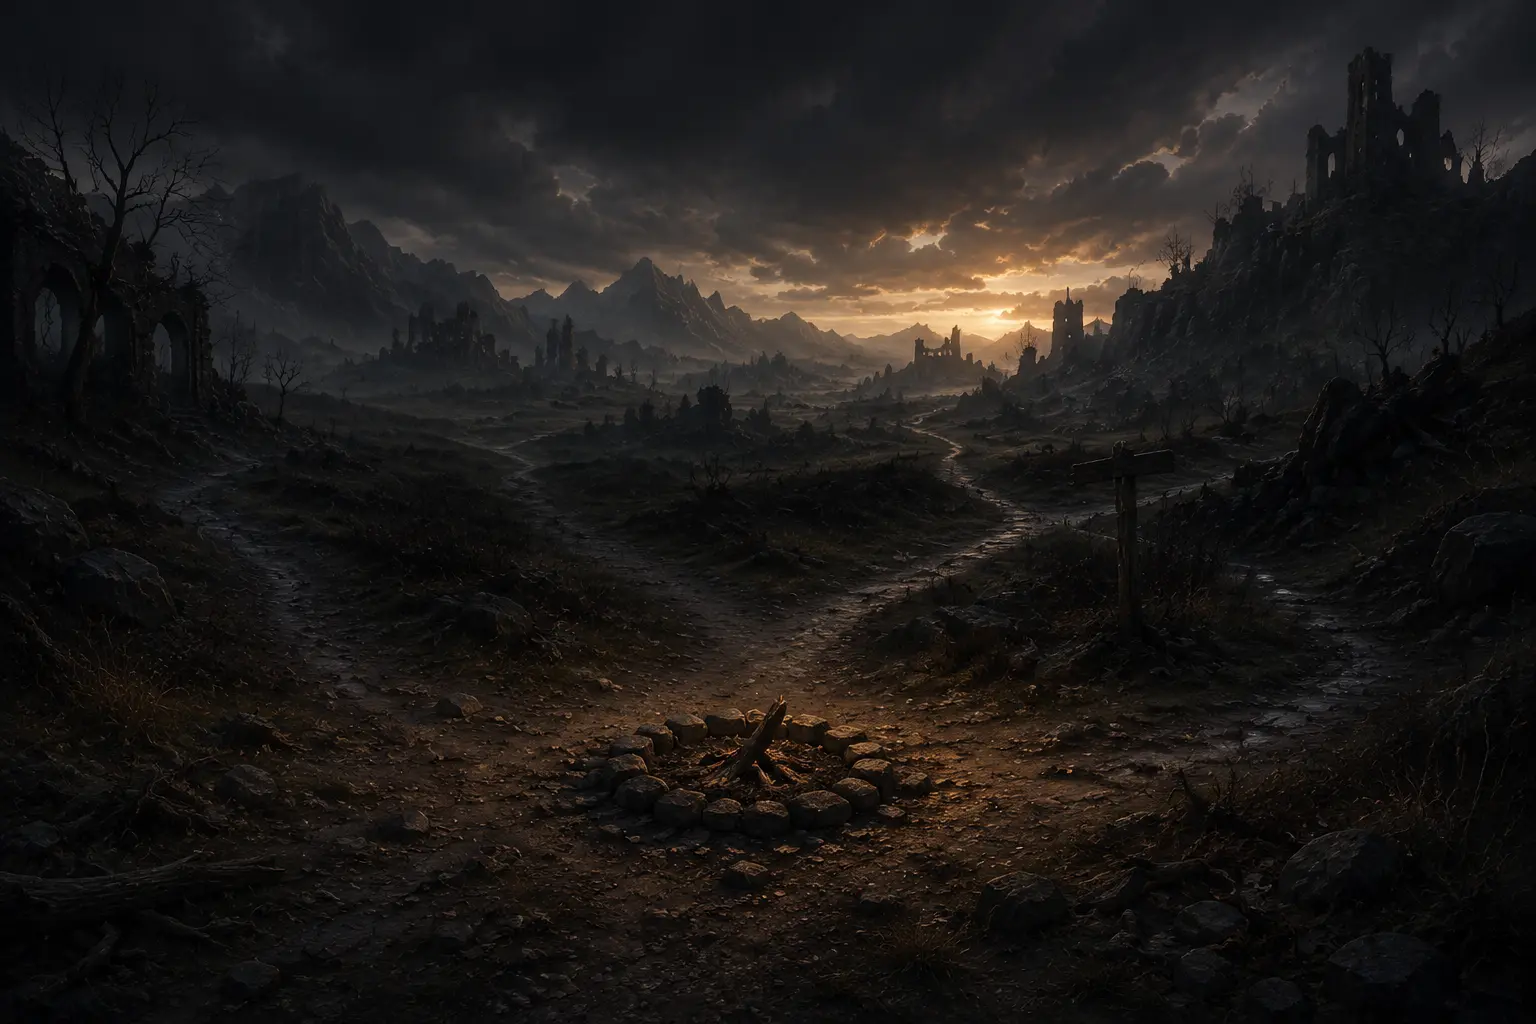
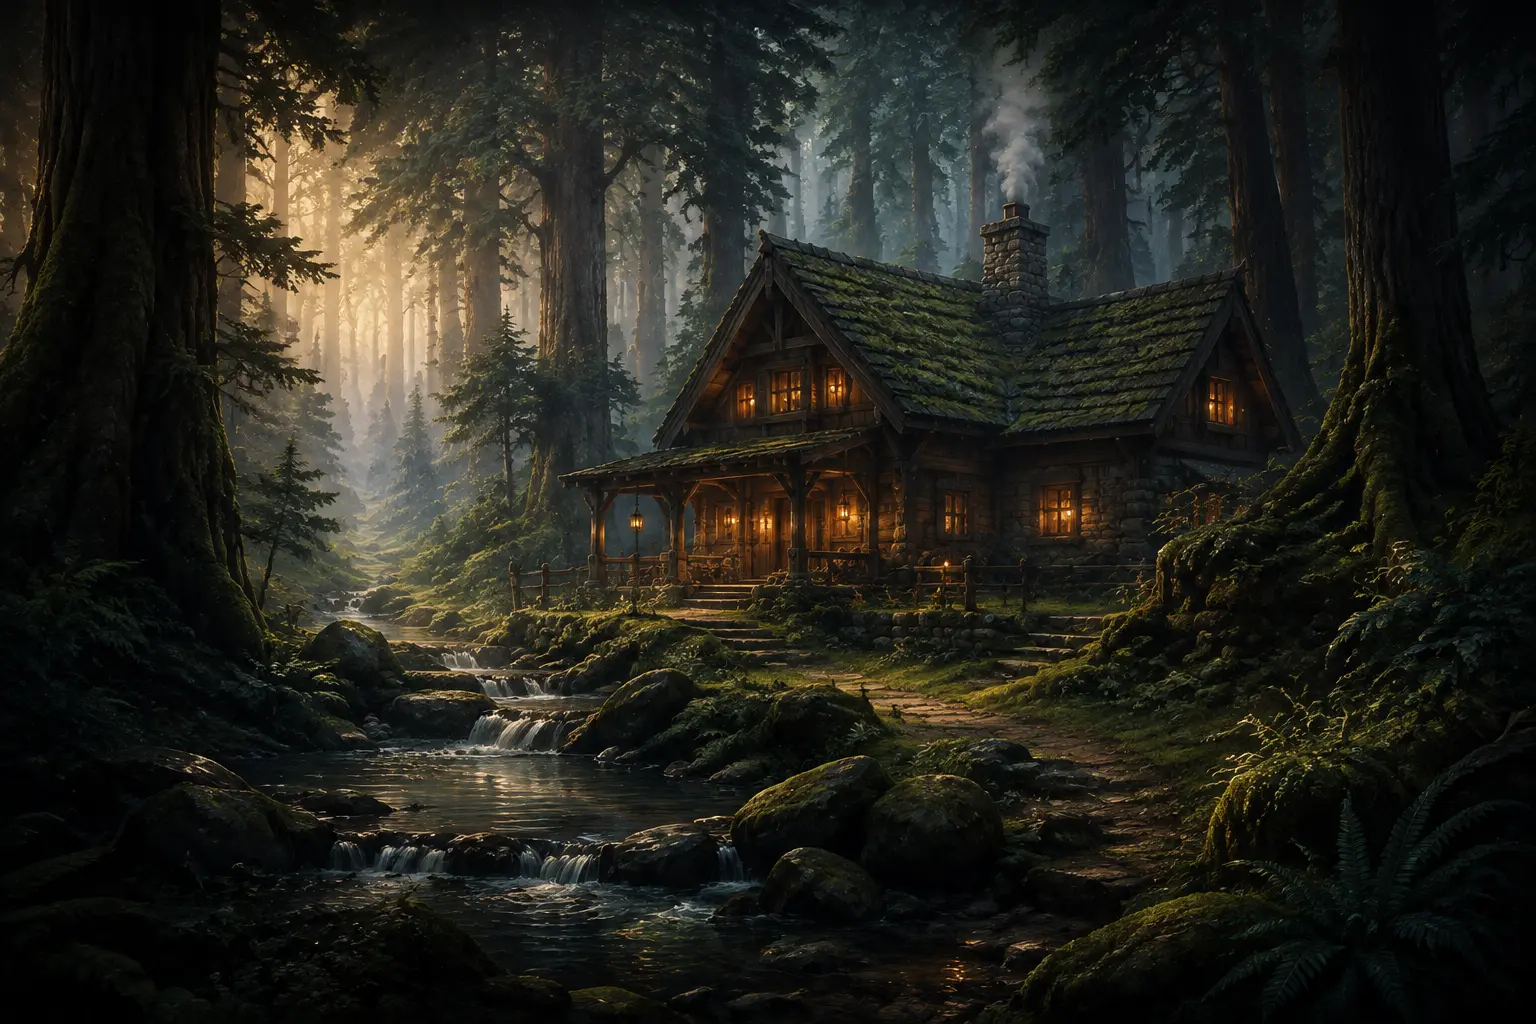
refactor(ui): keep fallback artwork and add responsive backgrounds

diff --git a/src/lib/ui-assets.ts b/src/lib/ui-assets.ts
@@ -1,185 +1,1 @@
-export type UiArtwork = Readonly<{
-  slug: string;
-  name: string;
-  src: string;
-  alt: string;
-  width: number;
-  height: number;
-}>;
-
-export const uiAssets = {
-  brand: {
-    logo: {
-      src: "/images/brand/weaveryn-logo.png",
-      alt: "Weaveryn celestial globe logo",
-      width: 1269,
-      height: 1240,
-    },
-  },
-  backgrounds: {
-    appShell: {
-      src: "/images/backgrounds/app-shell.webp",
-      alt: "Mountain realm with illuminated fantasy cities at twilight",
-      width: 1672,
-      height: 941,
-    },
-  },
-  fallbacks: {
-    world: "/images/worlds/default.webp",
-    campaign: "/images/campaigns/default.webp",
-    character: "/images/characters/default.webp",
-  },
-} as const;
-
-export const worldArtwork = [
-  {
-    slug: "eldoria",
-    name: "Eldoria",
-    src: "/images/worlds/eldoria.webp",
-    alt: "Mountain kingdom and castle city at golden sunset",
-    width: 1536,
-    height: 1024,
-  },
-  {
-    slug: "nythoria",
-    name: "Nythoria",
-    src: "/images/worlds/nythoria.webp",
-    alt: "Moonlit black-stone castle above an icy valley",
-    width: 1536,
-    height: 1024,
-  },
-  {
-    slug: "keldarim",
-    name: "Keldarim",
-    src: "/images/worlds/keldarim.webp",
-    alt: "Moss-covered mountain citadel beneath storm clouds",
-    width: 1536,
-    height: 1024,
-  },
-  {
-    slug: "vaelun",
-    name: "Vaelun",
-    src: "/images/worlds/vaelun.webp",
-    alt: "Violet crystalline realm surrounding an arcane rift",
-    width: 1536,
-    height: 1024,
-  },
-  {
-    slug: "thalorin",
-    name: "Thalorin",
-    src: "/images/worlds/thalorin.webp",
-    alt: "Ancient forest ruins beneath immense trees",
-    width: 1536,
-    height: 1024,
-  },
-  {
-    slug: "drakoria",
-    name: "Drakoria",
-    src: "/images/worlds/drakoria.webp",
-    alt: "Volcanic fortress city crossed by lava channels",
-    width: 1536,
-    height: 1024,
-  },
-  {
-    slug: "frostgard",
-    name: "Frostgard",
-    src: "/images/worlds/frostgard.webp",
-    alt: "Icebound fortress in a snow-covered mountain basin",
-    width: 1536,
-    height: 1024,
-  },
-  {
-    slug: "aurelia",
-    name: "Aurelia",
-    src: "/images/worlds/aurelia.webp",
-    alt: "Radiant domed city of pale stone and gold",
-    width: 1536,
-    height: 1024,
-  },
-] as const satisfies readonly UiArtwork[];
-
-export const campaignArtwork = [
-  {
-    slug: "crown-of-ashes",
-    name: "Crown of Ashes",
-    src: "/images/campaigns/crown-of-ashes.webp",
-    alt: "Castle city threatened by fire beneath an ash-filled sunset",
-    width: 1536,
-    height: 1024,
-  },
-  {
-    slug: "whispers-in-the-deep",
-    name: "Whispers in the Deep",
-    src: "/images/campaigns/whispers-in-the-deep.webp",
-    alt: "Flooded ancient temple with a distant blue-lit arch",
-    width: 1536,
-    height: 1024,
-  },
-  {
-    slug: "the-verdant-vale",
-    name: "The Verdant Vale",
-    src: "/images/campaigns/the-verdant-vale.webp",
-    alt: "Warm woodland lodge beside a forest stream",
-    width: 1536,
-    height: 1024,
-  },
-  {
-    slug: "sands-of-time",
-    name: "Sands of Time",
-    src: "/images/campaigns/sands-of-time.webp",
-    alt: "Desert capital with a luminous hourglass-shaped gate",
-    width: 1536,
-    height: 1024,
-  },
-  {
-    slug: "frostbound-oath",
-    name: "Frostbound Oath",
-    src: "/images/campaigns/frostbound-oath.webp",
-    alt: "Snowbound mountain keep beyond a path of oath stones",
-    width: 1536,
-    height: 1024,
-  },
-  {
-    slug: "shadows-of-the-arcanum",
-    name: "Shadows of the Arcanum",
-    src: "/images/campaigns/shadows-of-the-arcanum.webp",
-    alt: "Violet crystal suspended in a shadowed arcane hall",
-    width: 1536,
-    height: 1024,
-  },
-] as const satisfies readonly UiArtwork[];
-
-export const characterArtwork = [
-  {
-    slug: "aldric",
-    name: "Aldric",
-    src: "/images/characters/aldric.webp",
-    alt: "Aldric, a dark-haired human paladin in blackened armor",
-    width: 1086,
-    height: 1448,
-  },
-  {
-    slug: "lyra",
-    name: "Lyra",
-    src: "/images/characters/lyra.webp",
-    alt: "Lyra, an elven ranger in a deep-green cloak",
-    width: 1086,
-    height: 1448,
-  },
-  {
-    slug: "durin",
-    name: "Durin",
-    src: "/images/characters/durin.webp",
-    alt: "Durin, a red-bearded dwarven fighter in dark armor",
-    width: 1086,
-    height: 1448,
-  },
-  {
-    slug: "vaelyn",
-    name: "Vaelyn",
-    src: "/images/characters/vaelyn.webp",
-    alt: "Vaelyn, a violet horned sorcerer holding arcane light",
-    width: 1086,
-    height: 1448,
-  },
-] as const satisfies readonly UiArtwork[];
[1 lines of base64/hex data omitted]

diff --git a/docs/UI_ASSETS.md b/docs/UI_ASSETS.md
@@ -1,59 +1,1 @@
-# Weaveryn UI image assets
-
-The production UI artwork is stored in `public/images`. It follows the visual
-direction established by the concept screens in `docs/images/concepts`:
-
-- near-black and deep-blue environments
-- restrained antique-gold and ember lighting
-- painterly, grounded fantasy scenery
-- mature 2D/2.5D character portraits
-- clean image content without baked-in UI, typography, borders, or logos
-
-The existing `logo_weaveryn.png` concept was copied unchanged to
-`public/images/brand/weaveryn-logo.png`.
-
-## Asset groups
-
-| Group | Location | Intended use |
-| --- | --- | --- |
-| Brand | `public/images/brand` | Header, authentication, and navigation branding |
-| Backgrounds | `public/images/backgrounds` | Full-page shell and authentication backdrop |
-| Worlds | `public/images/worlds` | World cards, recent-world cards, and world headers |
-| Campaigns | `public/images/campaigns` | Campaign cards and recent-campaign cards |
-| Characters | `public/images/characters` | Character cards, recent-character cards, and avatars |
-
-Each content group includes `default.webp`, a neutral fallback for records that
-do not yet have user-provided artwork. Named demo assets correspond to the
-worlds, campaigns, and characters shown in the concept screens.
-
-The typed path, dimensions, and accessible-alt manifest lives in
-`src/lib/ui-assets.ts`.
-
-## Rendering guidance
-
-- Use `next/image` with the dimensions from the manifest or `fill` inside a
-  constrained aspect-ratio container.
-- Use `object-fit: cover` for cards. The main landmark or face is kept near the
-  safe center so narrower mobile crops remain usable.
-- Apply gradients, vignette, borders, selection states, badges, and text in CSS
-  rather than modifying the raster artwork.
-- The background is deliberately darker and quieter near its center so form and
-  navigation overlays retain contrast.
-- Prefer user-uploaded artwork when present and use the matching fallback only
-  when no image is available.
-
-## Generation and optimization
-
-The environment and portrait artwork was generated with the built-in image
-generation workflow using the in-repository concept screens as style references.
-Every prompt required original, text-free artwork without watermarks, UI chrome,
-logos, or recognizable copyrighted settings or characters.
-
-Environment prompts specified the individual realm or campaign landmark and a
-wide 3:2 crop. Character prompts specified the four concept characters and a
-vertical 3:4 crop. Neutral fallback prompts described an unnamed misty realm, an
-unstarted campfire journey, and an indistinct hooded traveler.
-
-Generated PNG sources were stripped of metadata and converted to WebP for the
-application. The transparent logo remains PNG so its existing alpha and visual
-appearance are preserved exactly.
[1 lines of base64/hex data omitted]
